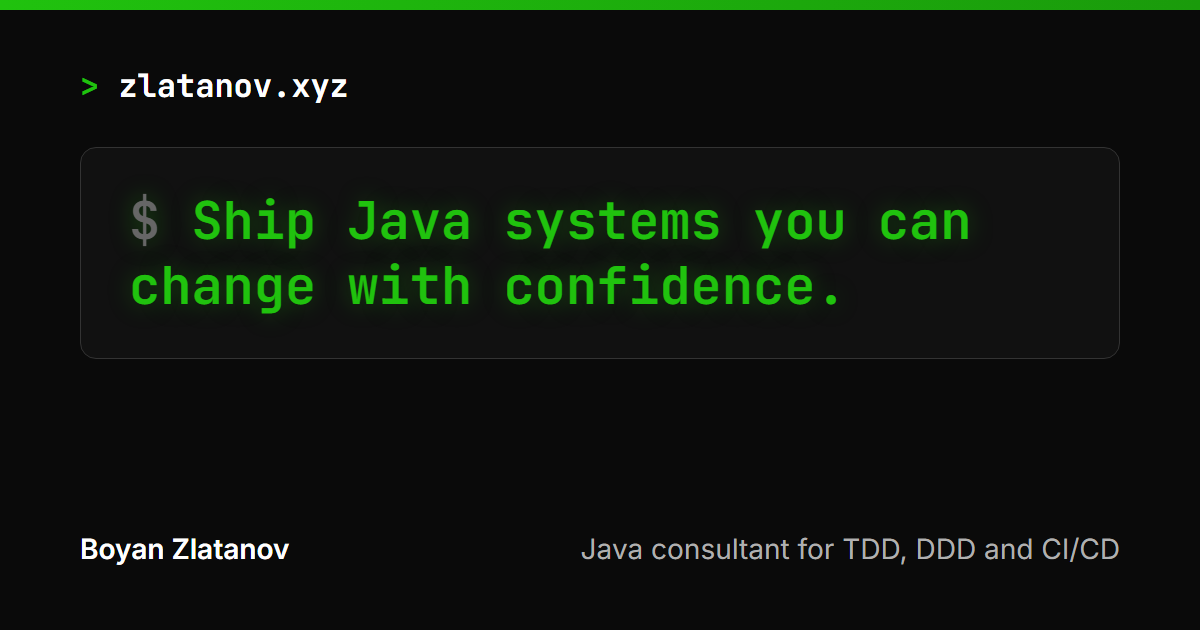
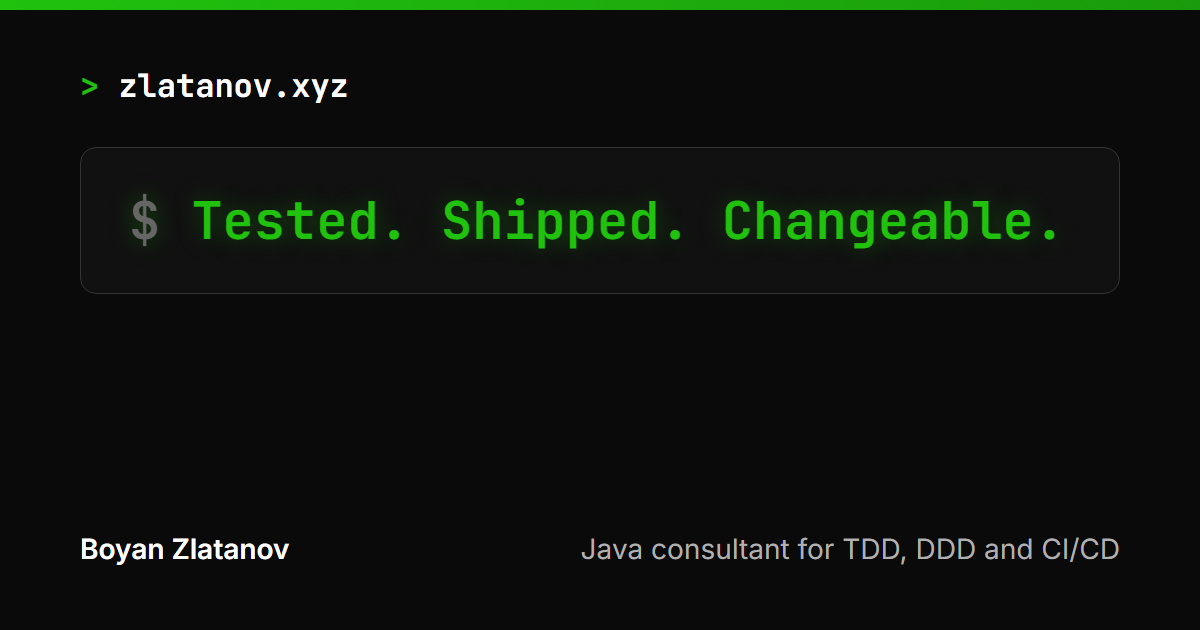
Merge blog page

Changed region(s): [[0.1542, 0.3016, 0.7708, 0.3921], [0.0925, 0.4222, 0.7092, 0.5127], [0.7708, 0.3016, 0.8942, 0.3921]]

diff --git a/src/lib/site.ts b/src/lib/site.ts
@@ -10,8 +10,10 @@ export const SITE = {
   title: 'Boyan Zlatanov · Java consultant for TDD, DDD and CI/CD',
   description:
     'Independent Java and Spring consultant helping teams ship faster with test-driven development, domain-driven design and reliable CI/CD pipelines.',
-  /** The hero prompt on the home page and the social preview image. */
-  slogan: 'Ship systems you can change with confidence.',
+  /** The home page title and the social preview image. */
+  slogan: 'Tested. Shipped. Changeable.',
+  /** The `$ ` line under the slogan on the home page. */
+  sloganSubtitle: 'Engineering habits for boring deploys.',
   url: 'https://zlatanov.xyz',
   author: 'Boyan Zlatanov',
   email: 'boyan@zlatanov.xyz',

diff --git a/tests/e2e/home.spec.ts b/tests/e2e/home.spec.ts
@@ -12,7 +12,7 @@ test('home page renders the profile, the navigation and the three cards', async 
   await page.goto('/');
 
   await expect(page).toHaveTitle(/Boyan Zlatanov/);
-  await expect(page.getByRole('heading', { level: 1 })).toHaveText(SITE.name);
+  await expect(page.getByRole('heading', { level: 1 })).toHaveText(SITE.slogan);
 
   const nav = page.getByRole('navigation', { name: 'Main' });
   for (const label of ['home', 'blog']) {

diff --git a/src/styles/global.css b/src/styles/global.css
@@ -54,13 +54,9 @@
   }
 }
 
-/* Phosphor glow on text: hover states, the slogan. */
+/* Phosphor glow on text: hover states. */
 @utility glow-text {
   text-shadow: 0 0 10px var(--color-glow);
-}
-
-@utility glow-text-lg {
-  text-shadow: 0 0 20px var(--color-glow);
 }
 
 /* Green gradient headline, as on the reference profile and blog heroes. */

diff --git a/CLAUDE.md b/CLAUDE.md
@@ -47,8 +47,8 @@ Nothing runs for branches or pull requests, so run the checks locally before mer
   variable) for body copy; JetBrains Mono for the logo, nav, card titles, meta, buttons, tags and
   prompts. Every content block is a `Card.astro`: bordered panel, green gradient bar on top,
   optional `# title` heading. Pages open with `Hero.astro` under a pulsing rule: gradient h1 plus
-  a `$ ` subtitle, or the slogan panel on the home page. `ButtonLink.astro` is the outlined green
-  mono button, `PillLink.astro` the rounded social pill. The header logo is `> zlatanov` plus a
+  a `$ ` subtitle (on the home page, `SITE.slogan` and `SITE.sloganSubtitle`). `ButtonLink.astro`
+  is the outlined green mono button, `PillLink.astro` the rounded social pill. The header logo is `> zlatanov` plus a
   blinking green block cursor, with `SITE.logoSubtitle` beside it from `sm` up. Prompt glyphs
   carry meaning: `>` before the logo and `> ` before sub-headings, `$ ` before slogans and
   subtitles, `# ` before card titles and tags. Post lists are stacked `PostCard.astro` panels that lift on hover; markdown
